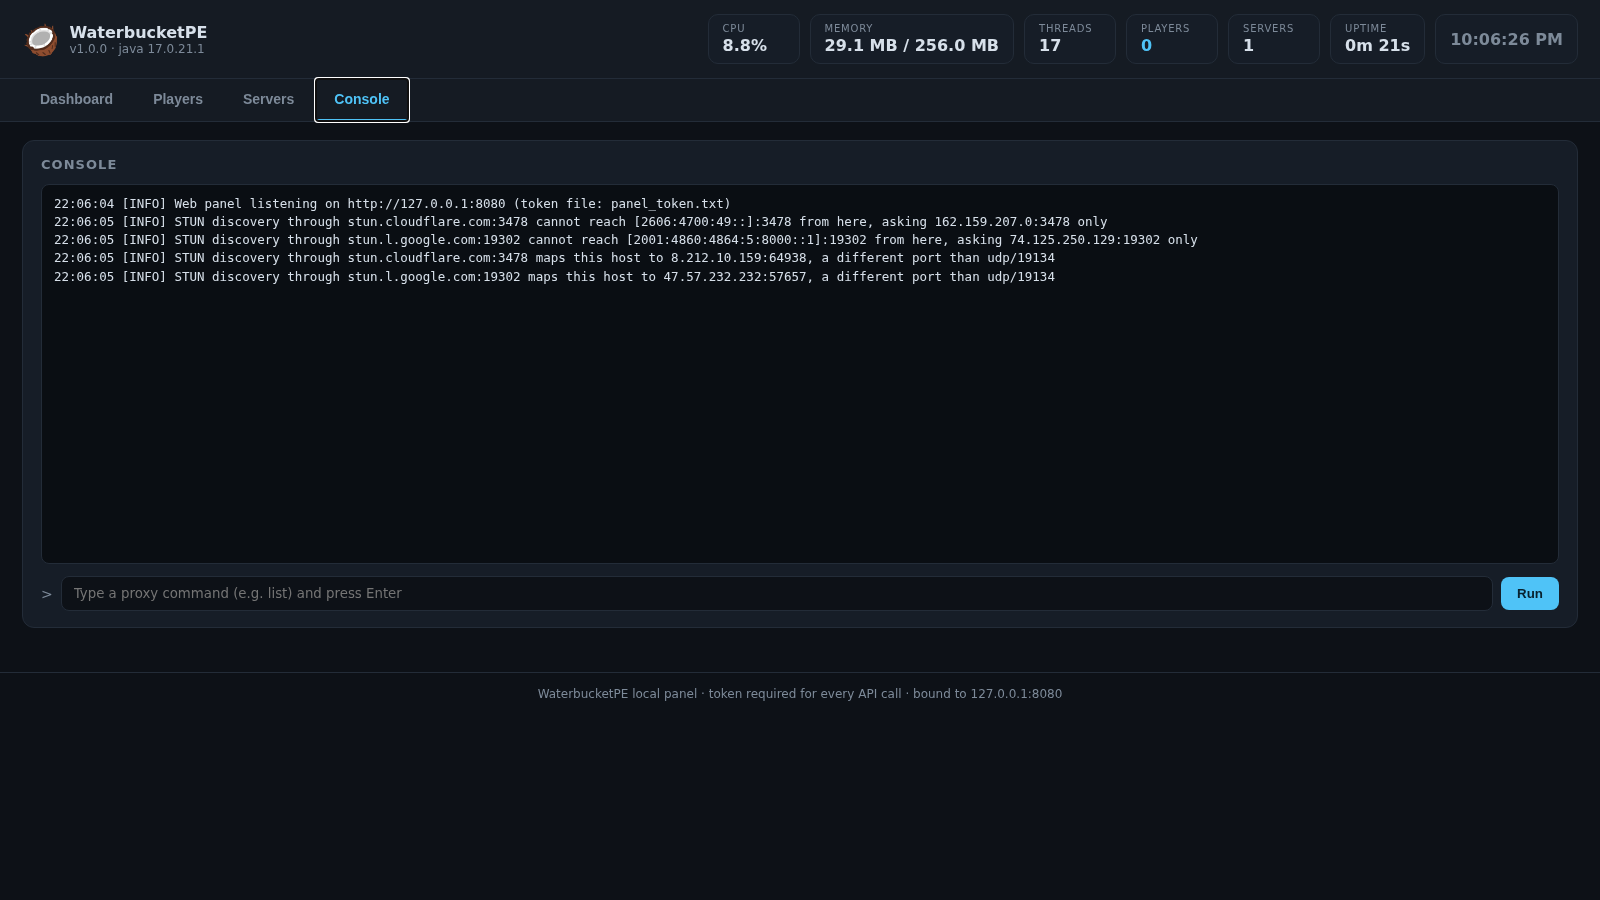
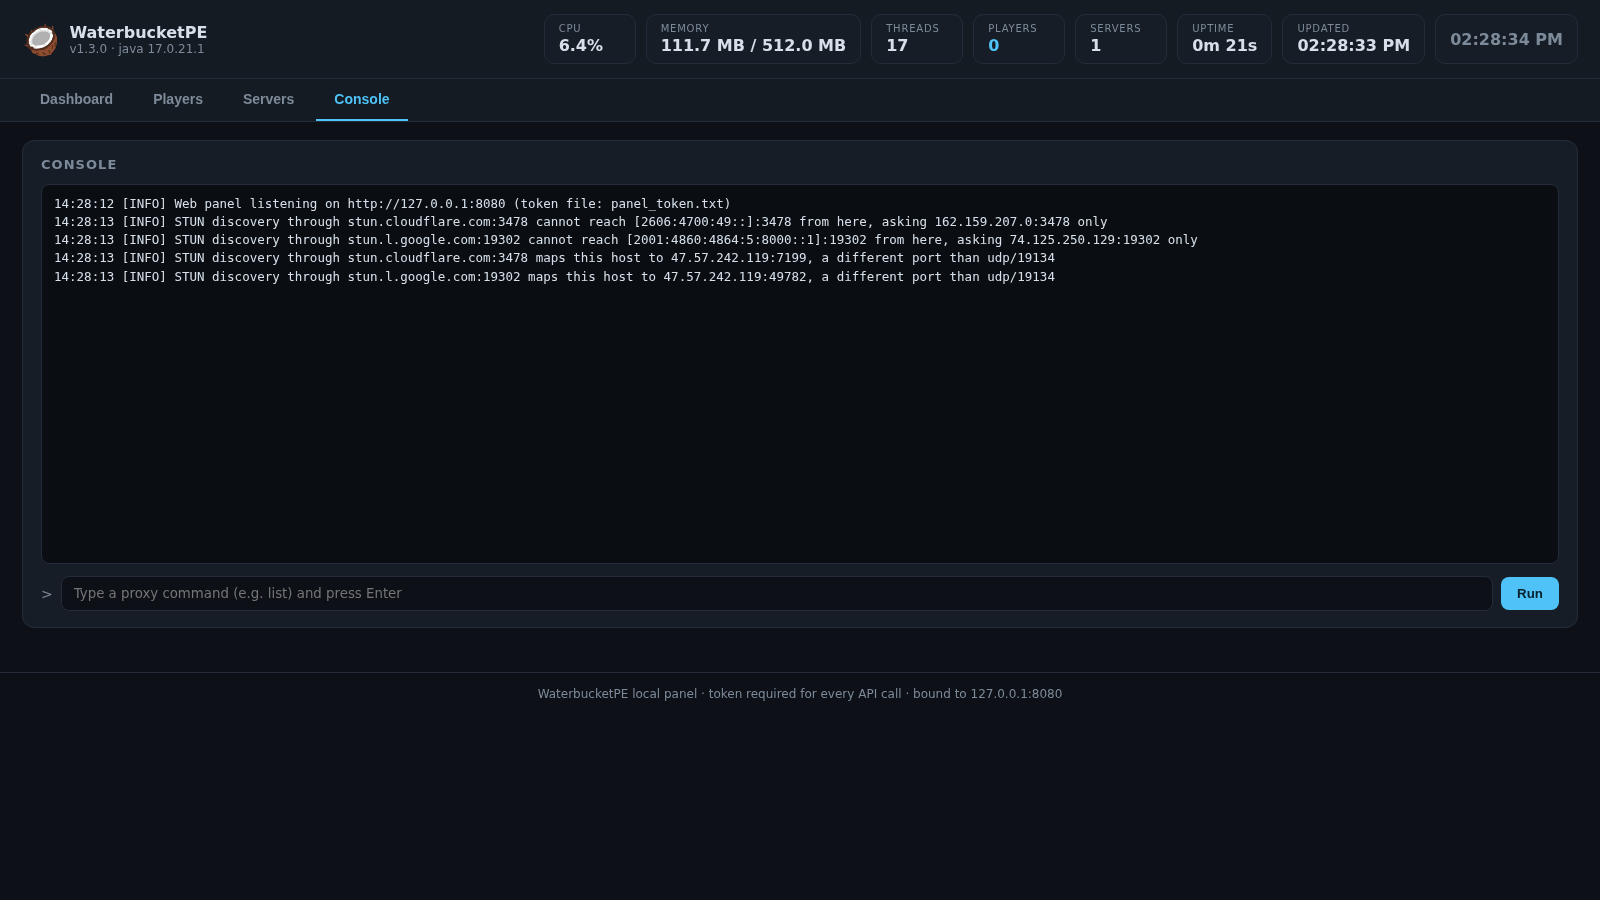
Surface panel connection loss, empty states and a content security policy
Frontend: a dead proxy left every widget silently stale - a connection-lost
banner now appears on any failed refresh, the "Updated" stat shows the
last successful refresh time, empty player/server tables render an
explicit "no rows" row instead of a bare header, and the login button
disables itself while checking instead of letting a slow proxy stack
clicks. Login errors now distinguish an invalid token from an unreachable
proxy.

Backend: the panel served no Content-Security-Policy; the page only loads
same-origin assets, so the policy makes any injected script inert on top
of the escaping the frontend already applies. PanelMetrics dropped
per-server states of servers removed from the config only when the
servers endpoint was polled; the state map now prunes on every tick so
removed servers cannot accumulate forever.

Screenshots refreshed for the new states.

diff --git a/src/main/resources/panel/app.js b/src/main/resources/panel/app.js
@@ -33,19 +33,38 @@ function showLogin() { loginOverlay.classList.remove("hidden"); }
 function hideLogin() { loginOverlay.classList.add("hidden"); }
 
 async function tryLogin(token) {
-  const res = await fetch("/api/status", { headers: { "X-Panel-Token": token } });
-  if (res.ok) {
-    localStorage.setItem("wb_panel_token", token);
-    hideLogin();
-    boot();
-    return true;
+  const loginError = document.getElementById("login-error");
+  try {
+    const res = await fetch("/api/status", { headers: { "X-Panel-Token": token } });
+    if (res.ok) {
+      localStorage.setItem("wb_panel_token", token);
+      hideLogin();
+      boot();
+      return true;
+    }
+    if (res.status === 401) {
+      loginError.textContent = "Invalid token";
+    } else {
+      loginError.textContent = "Proxy answered with HTTP " + res.status;
+    }
+    return false;
+  } catch (e) {
+    loginError.textContent = "Proxy unreachable - is it still running?";
+    return false;
   }
-  return false;
 }
 
-document.getElementById("login-btn").addEventListener("click", async () => {
-  const ok = await tryLogin(document.getElementById("token-input").value.trim());
-  document.getElementById("login-error").classList.toggle("hidden", ok);
+const loginBtn = document.getElementById("login-btn");
+loginBtn.addEventListener("click", async () => {
+  loginBtn.disabled = true;
+  loginBtn.textContent = "Checking…";
+  try {
+    const ok = await tryLogin(document.getElementById("token-input").value.trim());
+    document.getElementById("login-error").classList.toggle("hidden", ok);
+  } finally {
+    loginBtn.disabled = false;
+    loginBtn.textContent = "Open dashboard";
+  }
 });
 document.getElementById("token-input").addEventListener("keydown", (e) => {
   if (e.key === "Enter") document.getElementById("login-btn").click();
@@ -130,10 +149,17 @@ function pill(text, good) {
   return `<span class="pill ${good ? "good" : "bad"}">${text}</span>`;
 }
 
+/* ---------------- connection state ---------------- */
+const connBanner = document.getElementById("conn-banner");
+function setConnectionLost(lost) {
+  connBanner.classList.toggle("hidden", !lost);
+}
+
 /* ---------------- polling ---------------- */
 async function refreshStatus() {
   try {
     const s = await API.get("/api/status");
+    setConnectionLost(false);
     document.getElementById("proxy-name").textContent = s.proxyName;
     document.getElementById("proxy-version").textContent = "v" + s.proxyVersion + " · java " + s.javaVersion;
     document.getElementById("stat-cpu").textContent = s.cpu + "%";
@@ -142,19 +168,21 @@ async function refreshStatus() {
     document.getElementById("stat-players").textContent = s.players;
     document.getElementById("stat-servers").textContent = s.servers.length;
     document.getElementById("stat-uptime").textContent = fmtUptime(s.uptimeMs);
+    document.getElementById("stat-updated").textContent = fmtTime(Date.now());
     document.getElementById("bind-info").textContent = location.host;
 
     const rows = s.servers.map((srv) => {
       const online = srv.online;
       return `<tr>
-        <td>${srv.name}</td><td class="muted">${srv.address}</td>
-        <td class="muted">${srv.type}</td>
+        <td><strong>${escapeHtml(srv.name)}</strong></td><td class="muted">${escapeHtml(srv.address)}</td>
+        <td class="muted">${escapeHtml(srv.type)}</td>
         <td>${srv.players}</td>
         <td>${srv.pingMs >= 0 ? srv.pingMs + " ms" : "–"}</td>
         <td>${pill(online ? "online" : "down", online)}</td>
       </tr>`;
     });
-    document.querySelector("#server-status-table tbody").innerHTML = rows.join("");
+    document.querySelector("#server-status-table tbody").innerHTML =
+      rows.length ? rows.join("") : emptyRow(6, "No servers registered in the config");
 
     const upLabels = [], upData = [];
     s.servers.forEach((srv) => {
@@ -168,7 +196,10 @@ async function refreshStatus() {
     renderPlayers(await API.get("/api/players"));
     renderServersTable(s.servers);
   } catch (e) {
-    if (e.message !== "unauthorized") console.warn(e);
+    if (e.message !== "unauthorized") {
+      setConnectionLost(true);
+      console.warn(e);
+    }
   }
 }
 
@@ -195,6 +226,10 @@ async function refreshHistory() {
   }
 }
 
+function emptyRow(columns, text) {
+  return `<tr><td colspan="${columns}" class="muted empty-row">${escapeHtml(text)}</td></tr>`;
+}
+
 function renderPlayers(payload) {
   const players = payload.players || [];
   document.getElementById("player-count").textContent = players.length;
@@ -209,19 +244,21 @@ function renderPlayers(payload) {
       <button data-transfer="${escapeHtml(p.name)}">Transfer</button>
     </div></td>
   </tr>`);
-  document.querySelector("#players-table tbody").innerHTML = rows.join("");
+  document.querySelector("#players-table tbody").innerHTML =
+    rows.length ? rows.join("") : emptyRow(6, "No players online");
 }
 
 function renderServersTable(servers) {
   const rows = servers.map((srv) => `<tr>
     <td><strong>${escapeHtml(srv.name)}</strong></td>
-    <td class="muted">${srv.address}</td>
-    <td class="muted">${srv.type}</td>
+    <td class="muted">${escapeHtml(srv.address)}</td>
+    <td class="muted">${escapeHtml(srv.type)}</td>
     <td>${srv.players}</td>
     <td>${srv.pingMs >= 0 ? srv.pingMs + " ms" : "–"}</td>
     <td><div class="row-actions"><button data-ping="${escapeHtml(srv.name)}">Ping</button></div></td>
   </tr>`);
-  document.querySelector("#servers-table tbody").innerHTML = rows.join("");
+  document.querySelector("#servers-table tbody").innerHTML =
+    rows.length ? rows.join("") : emptyRow(6, "No servers registered in the config");
 }
 
 function escapeHtml(value) {
@@ -229,27 +266,56 @@ function escapeHtml(value) {
 }
 
 document.addEventListener("click", async (event) => {
-  const kick = event.target.getAttribute && event.target.getAttribute("data-kick");
-  const transfer = event.target.getAttribute && event.target.getAttribute("data-transfer");
-  const ping = event.target.getAttribute && event.target.getAttribute("data-ping");
+  const target = event.target;
+  const kick = target.getAttribute && target.getAttribute("data-kick");
+  const transfer = target.getAttribute && target.getAttribute("data-transfer");
+  const ping = target.getAttribute && target.getAttribute("data-ping");
   try {
     if (kick) {
-      if (confirm("Kick " + kick + "?")) await API.post("/api/players/" + encodeURIComponent(kick) + "/kick", { reason: "Kicked from the panel" });
+      if (confirm("Kick " + kick + "?")) {
+        target.disabled = true;
+        try {
+          await API.post("/api/players/" + encodeURIComponent(kick) + "/kick", { reason: "Kicked from the panel" });
+        } finally {
+          target.disabled = false;
+        }
+      }
       refreshStatus();
     } else if (transfer) {
       const server = prompt("Transfer " + transfer + " to which server?");
-      if (server) await API.post("/api/players/" + encodeURIComponent(transfer) + "/transfer", { server });
+      if (server) {
+        target.disabled = true;
+        try {
+          await API.post("/api/players/" + encodeURIComponent(transfer) + "/transfer", { server });
+        } finally {
+          target.disabled = false;
+        }
+      }
       refreshStatus();
     } else if (ping) {
-      await API.post("/api/servers/ping/" + encodeURIComponent(ping));
+      target.disabled = true;
+      target.textContent = "Pinging…";
+      try {
+        await API.post("/api/servers/ping/" + encodeURIComponent(ping));
+        setTimeout(refreshStatus, 1500);
+      } finally {
+        target.disabled = false;
+        target.textContent = "Ping";
+      }
     }
   } catch (e) {
-    if (e.message !== "unauthorized") console.warn(e);
+    if (e.message !== "unauthorized") {
+      setConnectionLost(true);
+      console.warn(e);
+    }
   }
 });
 
 /* ---------------- console ---------------- */
 const consoleOutput = document.getElementById("console-output");
+let renderedLogLines = 0;
+let lastLogPayload = [];
+
 function appendLog(line) {
   const div = document.createElement("div");
   const level = line.includes("[ERROR]") ? "log-error" : line.includes("[WARN]") ? "log-warn" : "log-info";
@@ -257,15 +323,29 @@ function appendLog(line) {
   div.textContent = line;
   consoleOutput.appendChild(div);
   while (consoleOutput.childElementCount > 400) consoleOutput.removeChild(consoleOutput.firstChild);
-  scrollConsole();
 }
 function scrollConsole() { consoleOutput.scrollTop = consoleOutput.scrollHeight; }
 
 async function refreshLogs() {
   try {
     const payload = await API.get("/api/logs");
-    consoleOutput.replaceChildren();
-    (payload.lines || []).forEach(appendLog);
+    const lines = payload.lines || [];
+    // Append only the new tail when the already rendered prefix still matches: re-rendering
+    // the whole 400-line tail three times a second caused visible console churn and wasted
+    // DOM work. A mismatch (rotation, server restart) falls back to a full rebuild.
+    if (renderedLogLines > 0 && renderedLogLines <= lastLogPayload.length && lines.length >= renderedLogLines
+        && lastLogPayload[renderedLogLines - 1] === lines[renderedLogLines - 1]) {
+      const fresh = lines.slice(renderedLogLines);
+      fresh.forEach(appendLog);
+      renderedLogLines = lines.length;
+    } else {
+      consoleOutput.replaceChildren();
+      if (!lines.length) appendLog("(no log lines yet)");
+      lines.forEach(appendLog);
+      renderedLogLines = lines.length;
+    }
+    lastLogPayload = lines;
+    scrollConsole();
   } catch (e) {
     if (e.message !== "unauthorized") console.warn(e);
   }

diff --git a/src/main/resources/panel/index.html b/src/main/resources/panel/index.html
@@ -34,6 +34,7 @@
     <div class="stat"><span class="stat-label">Players</span><span class="stat-value accent" id="stat-players">–</span></div>
     <div class="stat"><span class="stat-label">Servers</span><span class="stat-value" id="stat-servers">–</span></div>
     <div class="stat"><span class="stat-label">Uptime</span><span class="stat-value" id="stat-uptime">–</span></div>
+    <div class="stat"><span class="stat-label">Updated</span><span class="stat-value" id="stat-updated">–</span></div>
     <div class="stat clock"><span class="stat-value muted" id="stat-clock">–</span></div>
   </div>
 </header>
@@ -114,6 +115,8 @@
 <footer class="footer muted">
   WaterbucketPE local panel &middot; token required for every API call &middot; bound to <span id="bind-info">127.0.0.1</span>
 </footer>
+
+<div id="conn-banner" class="conn-banner hidden">Connection to the proxy lost &mdash; retrying&hellip;</div>
 
 <script src="/chart.umd.min.js"></script>
 <script src="/app.js"></script>

diff --git a/src/main/resources/panel/style.css b/src/main/resources/panel/style.css
@@ -67,6 +67,7 @@ html, body {
   cursor: pointer;
 }
 button:hover { filter: brightness(1.1); }
+button:disabled { opacity: 0.55; cursor: default; filter: none; }
 .login-error { color: var(--bad); }
 
 /* ---------- topbar ---------- */
@@ -221,6 +222,22 @@ tr:hover td { background: rgba(79, 195, 247, 0.05); }
   padding: 14px;
   border-top: 1px solid var(--border);
   font-size: 12px;
+}
+
+/* ---------- states ---------- */
+.empty-row { text-align: center; padding: 18px 10px; }
+.conn-banner {
+  position: fixed;
+  left: 50%;
+  bottom: 18px;
+  transform: translateX(-50%);
+  background: rgba(239, 83, 80, 0.92);
+  color: #1d0505;
+  font-weight: 600;
+  padding: 8px 18px;
+  border-radius: 10px;
+  z-index: 90;
+  box-shadow: 0 6px 24px rgba(0, 0, 0, 0.45);
 }
 
 @media (max-width: 900px) {

diff --git a/src/main/java/dev/waterbucket/waterbucketpe/panel/PanelServer.java b/src/main/java/dev/waterbucket/waterbucketpe/panel/PanelServer.java
@@ -242,7 +242,12 @@ public class PanelServer {
                         ? "max-age=3600" : "no-store")
                 .set("X-Content-Type-Options", "nosniff")
                 .set("X-Frame-Options", "DENY")
-                .set("Referrer-Policy", "no-referrer");
+                .set("Referrer-Policy", "no-referrer")
+                // The page only ever loads same-origin assets; the CSP makes any injected
+                // script/style inert on top of the escaping the frontend already applies.
+                .set("Content-Security-Policy", "default-src 'self'; img-src 'self' data:; "
+                        + "style-src 'self' 'unsafe-inline'; script-src 'self'; connect-src 'self'; "
+                        + "frame-ancestors 'none'; base-uri 'none'");
         if (HttpUtil.isKeepAlive(request)) {
             response.headers().set(HttpHeaderNames.CONNECTION, HttpHeaderValues.KEEP_ALIVE);
             ctx.writeAndFlush(response);

diff --git a/src/main/java/dev/waterbucket/waterbucketpe/panel/PanelMetrics.java b/src/main/java/dev/waterbucket/waterbucketpe/panel/PanelMetrics.java
@@ -111,6 +111,9 @@ public class PanelMetrics {
                 this.serverStates.computeIfAbsent(server.getServerName(), name -> new ServerState())
                         .players = server.getPlayers().size();
             }
+            // Drop states of servers that disappeared from the config so the map cannot retain
+            // stale entries forever.
+            this.serverStates.keySet().retainAll(perServer.keySet());
             point.put("perServer", perServer);
 
             synchronized (this.historyLock) {
